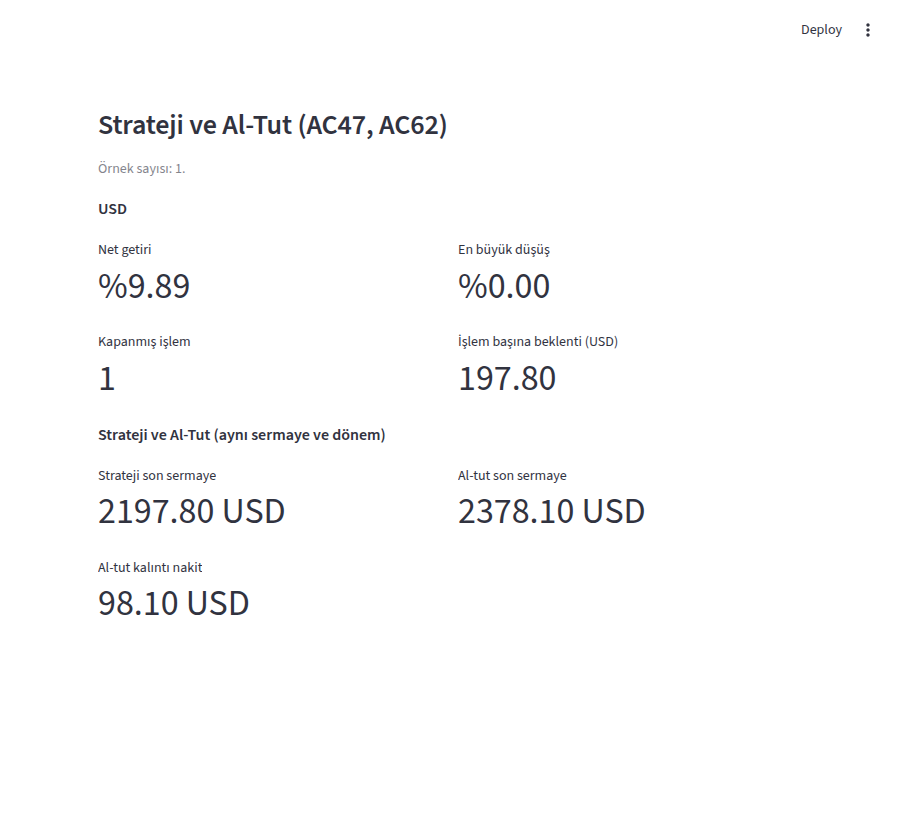
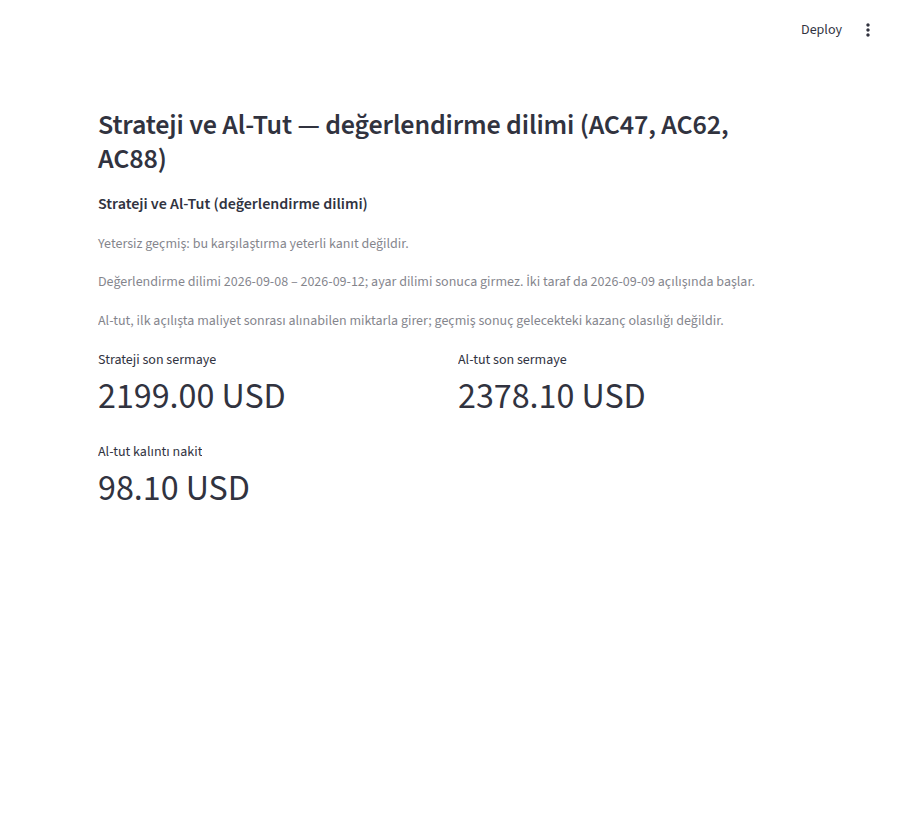
feat(performance): karşılaştırma ayrı değerlendirme diliminde başlar [plan 0005/S2]
Q01 eki (AC88): al-tut ve strateji değerlendirme diliminin ilk kapanışından
sonraki açılışta birlikte başlar; ayar dilimi sonuca girmez. Strateji dilim
içinde yeniden simüle edilir, 250 tarih altı 'yetersiz geçmiş' etiketi gösterilir.

Claude-Session: https://claude.ai/code/session_01KPUqAWALe17eWKMD3pfBWj

diff --git a/tests/test_performance_ui.py b/tests/test_performance_ui.py
@@ -171,41 +171,79 @@ def test_smoke_backtest_screen_shows_reliable_performance_report(store, monkeypa
     assert {"Strateji son sermaye", "Al-tut son sermaye"} <= {m.label for m in at.metric}
 
 
-def test_comparison_shows_strategy_and_buy_and_hold_on_same_capital():
-    """AC47 — Strateji ile al-tut aynı sermayede yan yana; al-tut maliyet sonrası miktarla girer."""
+def _comparison_frame(open_values=None, close_values=None):
+    """12 günlük çubuk: ayar dilimi ilk 7, değerlendirme dilimi son 5 (index 7–11)."""
     import pandas as pd
-    from technical_analysis import run_v1_strategy_backtest
+
+    index = pd.date_range("2026-09-01", periods=12, freq="D", tz="UTC")
+    opens = open_values or [100] * 12
+    closes = close_values or [100] * 11 + [120]
+    frame = pd.DataFrame({"Open": opens, "High": [max(o, c) + 1 for o, c in zip(opens, closes)],
+                          "Low": [min(o, c) - 1 for o, c in zip(opens, closes)],
+                          "Close": closes, "ATR": [4] * 12}, index=index)
+    return frame, index
+
+
+def _compare(frame, decisions, step=Decimal("1"), commission="0"):
     from trade_execution import CostAssumptions
 
     zero = Decimal("0")
-    index = pd.date_range("2026-09-01", periods=4, freq="D", tz="UTC")
-    frame = pd.DataFrame({
-        "Open": [100, 100, 110, 120], "High": [101, 200, 115, 125],
-        "Low": [98, 95, 105, 118], "Close": [100, 110, 112, 120], "ATR": [4, 5, 5, 5],
-    }, index=index)
-    costs = CostAssumptions(zero, zero, zero)
-    result = run_v1_strategy_backtest(
-        frame, {index[0]: "AL", index[1]: "BEKLE", index[2]: "SAT"}, initial_cash=Decimal("1000"),
-        trade_notional=Decimal("1000"), quantity_step=Decimal("1"), costs=costs)
-    view = performance_ui.comparison_from_backtest("ETH-USD", frame, result, Decimal("1"), costs)
+    costs = CostAssumptions(zero, zero, Decimal(commission))
+    return performance_ui.comparison_from_backtest(
+        "ETH-USD", frame, decisions, Decimal("1000"), Decimal("1000"), step, costs)
+
+
+def test_comparison_shows_strategy_and_buy_and_hold_on_same_capital():
+    """AC47 — Strateji ile al-tut aynı sermayede yan yana; al-tut maliyet sonrası miktarla girer."""
+    frame, index = _comparison_frame()
+    view = _compare(frame, {index[7]: "AL"})
     metrics = dict(view.blocks[0].metrics)
     assert metrics["Al-tut son sermaye"] == "1200.00 USD"   # 10 adet × 120
     assert metrics["Al-tut kalıntı nakit"] == "0.00 USD"
-    assert "Strateji son sermaye" in metrics
+    assert metrics["Strateji son sermaye"] == "1200.00 USD"  # aynı anda, aynı fiyattan girdi
+
+
+def test_ac88_prices_before_evaluation_slice_do_not_change_comparison():
+    """AC88 — Değerlendirme diliminden önceki fiyatlar değişince al-tut ve strateji karşılaştırması değişmez."""
+    frame, index = _comparison_frame()
+    decisions = {index[7]: "AL"}
+    before = _compare(frame, decisions)
+    altered = frame.copy()
+    altered.iloc[:7, :4] = altered.iloc[:7, :4].values * 3
+    after = _compare(altered, decisions)
+    assert before.blocks[0].metrics == after.blocks[0].metrics
+
+
+def test_ac88_decisions_inside_tuning_slice_are_not_used():
+    """AC88 — Ayar dilimindeki kararlar karşılaştırmada işlem açmaz; ikisi de dilimin ilk açılışında başlar."""
+    frame, index = _comparison_frame()
+    with_old_decision = _compare(frame, {index[3]: "AL", index[6]: "AL"})
+    metrics = dict(with_old_decision.blocks[0].metrics)
+    assert metrics["Strateji son sermaye"] == "1000.00 USD"   # dilim içinde karar yok → nakitte
+    assert metrics["Al-tut son sermaye"] == "1200.00 USD"
+    notes = " ".join(with_old_decision.blocks[0].notes)
+    assert "2026-09-09 açılışında başlar" in notes            # index[8], dilimin ilk kapanışından sonra
+
+
+def test_comparison_short_history_is_flagged_not_sufficient_evidence():
+    """AC54 — 250'den az tarihli geçmişte karşılaştırma "yetersiz geçmiş" etiketiyle gösterilir."""
+    frame, index = _comparison_frame()
+    notes = " ".join(_compare(frame, {index[7]: "AL"}).blocks[0].notes)
+    assert "Yetersiz geçmiş" in notes
 
 
 def test_comparison_without_known_step_explains_instead_of_guessing():
     """AC47 — Miktar adımı bilinmiyorsa al-tut uydurulmaz, neden gösterilir."""
-    import pandas as pd
-    from trade_execution import CostAssumptions
-
-    index = pd.date_range("2026-09-01", periods=2, freq="D", tz="UTC")
-    frame = pd.DataFrame({"Open": [100, 100], "Close": [100, 110]}, index=index)
-    backtest = {"initial_cash": "1000", "daily_equity": [
-        {"date": index[0], "equity": Decimal("1000")}, {"date": index[1], "equity": Decimal("1000")}]}
-    view = performance_ui.comparison_from_backtest(
-        "ETH-USD", frame, backtest, None, CostAssumptions(Decimal("0"), Decimal("0"), Decimal("0")))
+    frame, index = _comparison_frame()
+    view = _compare(frame, {index[7]: "AL"}, step=None)
     assert view.blocks == [] and "Miktar adımı bilinmiyor" in view.messages[0]
+
+
+def test_comparison_evaluation_slice_too_short_gives_message():
+    """AC57 — Değerlendirme dilimi karşılaştırmaya yetmiyorsa "yetersiz geçmiş" mesajı görünür."""
+    frame, _ = _comparison_frame()
+    view = _compare(frame.iloc[:2], {})
+    assert view.blocks == [] and "Yetersiz geçmiş" in view.messages[0]
 
 
 def _backtest_screen(store, monkeypatch, processed_df):

diff --git a/performance_ui.py b/performance_ui.py
@@ -13,7 +13,7 @@ from decimal import ROUND_HALF_EVEN, Decimal
 
 import market_map
 from trading_ui import describe_code
-from evaluation_window import EvaluationInput, buy_and_hold, comparable
+from evaluation_window import EvaluationInput, buy_and_hold, comparable, split_dates
 from config import PerformanceConfig
 from performance_report import (
     GECERSIZ_ISTEK, OK, CurrencyResult, EquityPoint, ReportFilters, ReportOutcome,
@@ -107,33 +107,58 @@ def report_from_backtest(symbol: str, backtest: dict,
     return build_report({symbol: equity}, trades, filters or ReportFilters())
 
 
-def comparison_from_backtest(symbol: str, frame, backtest: dict, quantity_step, costs) -> ReportView:
-    """Strateji ile al-tut'u aynı sermaye ve dönemde yan yana gösterir (eşit koşul denetimli)."""
+def comparison_from_backtest(symbol: str, frame, decisions: dict, notional: Decimal,
+                             capital: Decimal, quantity_step, costs) -> ReportView:
+    """Strateji ile al-tut'u ayrı değerlendirme diliminde, aynı anda ve aynı sermayeyle gösterir.
+
+    Q01 / AC88: ayar dilimi karşılaştırmaya girmez. İki taraf da değerlendirme diliminin ilk
+    kapanışından sonraki açılışta başlar (stratejinin ilk alış yapabileceği an); strateji
+    yalnız dilim içindeki kararları kullanır.
+    """
+    from technical_analysis import run_v1_strategy_backtest
+
     info = market_map.market_of(symbol)
     currency = info[1] if info else ""
-    curve = backtest["daily_equity"]
-    capital = Decimal(backtest["initial_cash"])
+    split = split_dates([_as_day(ts) for ts in frame.index])
+    if len(split.evaluation) < 2:
+        return ReportView(blocks=[], messages=[
+            "Yetersiz geçmiş: ayrı değerlendirme dilimi karşılaştırma için çok kısa."])
+    first = split.evaluation[0]
+    window = frame[[_as_day(ts) >= first for ts in frame.index]]
+    capital = Decimal(capital)
+    result = run_v1_strategy_backtest(window, decisions, initial_cash=capital,
+                                      trade_notional=Decimal(notional),
+                                      quantity_step=quantity_step, costs=costs)
+    curve = result["daily_equity"]
     days = [_as_day(p["date"]) for p in curve]
     side = EvaluationInput(capital, days[0], days[-1], days, external_cash_flow=False)
     verdict = comparable(side, side)
     if not verdict.ok:
         return ReportView(blocks=[], messages=[verdict.reason])
-    hold = buy_and_hold(capital, Decimal(str(frame["Open"].iloc[0])),
-                        Decimal(str(frame["Close"].iloc[-1])), quantity_step, costs)
+    start_open = window["Open"].iloc[1]
+    hold = buy_and_hold(capital, Decimal(str(start_open)),
+                        Decimal(str(window["Close"].iloc[-1])), quantity_step, costs)
     if not hold.executed:
         return ReportView(blocks=[], messages=[
             f"Al-tut referansı hesaplanamadı: {describe_code(hold.reason)}"])
     strategy_final = Decimal(curve[-1]["equity"])
     suffix = " (üst sınır)" if hold.is_upper_bound else ""
+    notes = [
+        f"Değerlendirme dilimi {days[0]} – {days[-1]}; ayar dilimi sonuca girmez. İki taraf da "
+        f"{_as_day(window.index[1])} açılışında başlar.",
+        "Al-tut, ilk açılışta maliyet sonrası alınabilen miktarla girer; "
+        "geçmiş sonuç gelecekteki kazanç olasılığı değildir.",
+    ]
+    if not split.sufficient_history:
+        notes.insert(0, "Yetersiz geçmiş: bu karşılaştırma yeterli kanıt değildir.")
     block = MetricBlock(
-        title="Strateji ve Al-Tut (aynı sermaye ve dönem)",
+        title="Strateji ve Al-Tut (değerlendirme dilimi)",
         metrics=[
             ("Strateji son sermaye", _money(strategy_final, currency)),
             ("Al-tut son sermaye", _money(hold.final_equity, currency) + suffix),
             ("Al-tut kalıntı nakit", _money(hold.leftover_cash, currency)),
         ],
-        notes=["Al-tut, ilk açılışta maliyet sonrası alınabilen miktarla girer; "
-               "geçmiş sonuç gelecekteki kazanç olasılığı değildir."],
+        notes=notes,
     )
     return ReportView(blocks=[block], messages=[])
 
@@ -151,6 +176,9 @@ def render_report_view(view: ReportView) -> None:
         st.markdown(f"**{block.title}**")
         for warning in block.warnings:
             st.warning(warning)
+        for note in block.notes:
+            if note not in block.warnings:
+                st.caption(note)
         # İki sütun: "hesaplanamıyor" gibi uzun metin dar ekranda kesilmesin.
         for start in range(0, len(block.metrics), 2):
             pair = block.metrics[start:start + 2]
@@ -174,4 +202,5 @@ def render_report_panel(source: dict) -> None:
     filters = ReportFilters(market=None if market == "Tümü" else market, start=start, end=end)
     render_report_view(build_report_view(report_from_backtest(symbol, backtest, filters)))
     render_report_view(comparison_from_backtest(
-        symbol, source["frame"], backtest, source["quantity_step"], source["costs"]))
+        symbol, source["frame"], source["decisions"], source["notional"],
+        Decimal(backtest["initial_cash"]), source["quantity_step"], source["costs"]))

diff --git a/docs/evidence/0005/adim4/harness.py b/docs/evidence/0005/adim4/harness.py
@@ -41,16 +41,13 @@ elif state == "currencies":
         [tr("100"), tr("100", sym="THYAO.IS", cur="TRY", mk="BIST")], ReportFilters())))
 if state == "comparison":
     import pandas as pd
-    from technical_analysis import run_v1_strategy_backtest
     from trade_execution import CostAssumptions
     zero = Decimal("0")
-    idx = pd.date_range("2026-09-01", periods=4, freq="D", tz="UTC")
-    frame = pd.DataFrame({"Open": [100, 100, 110, 120], "High": [101, 200, 115, 125],
-                          "Low": [98, 95, 105, 118], "Close": [100, 110, 112, 120], "ATR": [4, 5, 5, 5]}, index=idx)
+    idx = pd.date_range("2026-09-01", periods=12, freq="D", tz="UTC")
+    closes = [100] * 11 + [120]
+    frame = pd.DataFrame({"Open": [100] * 12, "High": [c + 1 for c in closes],
+                          "Low": [c - 1 for c in closes], "Close": closes, "ATR": [4] * 12}, index=idx)
     costs = CostAssumptions(zero, zero, Decimal("0.1"))
-    res = run_v1_strategy_backtest(frame, {idx[0]: "AL", idx[1]: "BEKLE", idx[2]: "SAT"},
-                                   initial_cash=Decimal("2000"), trade_notional=Decimal("1000"),
-                                   quantity_step=Decimal("1"), costs=costs)
-    st.subheader("Strateji ve Al-Tut (AC47, AC62)")
-    ui.render_report_view(ui.build_report_view(ui.report_from_backtest("ETH-USD", res)))
-    ui.render_report_view(ui.comparison_from_backtest("ETH-USD", frame, res, Decimal("1"), costs))
+    st.subheader("Strateji ve Al-Tut — değerlendirme dilimi (AC47, AC62, AC88)")
+    ui.render_report_view(ui.comparison_from_backtest(
+        "ETH-USD", frame, {idx[7]: "AL"}, Decimal("1000"), Decimal("2000"), Decimal("1"), costs))

diff --git a/app.py b/app.py
@@ -601,6 +601,7 @@ if is_chart_renderable(df_view):
                         if view_tf == "1d":
                             st.session_state["perf_report_source"] = {
                                 "symbol": symbol, "backtest": bt_results, "frame": df_view,
+                                "decisions": v1_decisions, "notional": trade_parsed.settings.notional,
                                 "quantity_step": trade_parsed.settings.quantity_step,
                                 "costs": trade_parsed.settings.costs,
                             }

diff --git a/docs/evidence/0005/adim4/README.md b/docs/evidence/0005/adim4/README.md
@@ -11,6 +11,6 @@ ile sürülür.
 | `empty.png` | AC02, AC49, AC78 — boş dönem ve sıfır sermayede "hesaplanamıyor" |
 | `error.png` | AC09, AC64 — geçersiz istek anlaşılır mesajla, teknik metin yok |
 | `currencies.png` | AC10 — para birimleri ayrı bloklarda, tek toplam yok |
-| `comparison.png` | AC47, AC62 — strateji ve al-tut aynı sermaye/dönemde |
+| `comparison.png` | AC47, AC62, AC88 — strateji ve al-tut değerlendirme diliminde, aynı anda başlar |
 
 Yeniden üretim: `streamlit run docs/evidence/0005/adim4/harness.py` ve `?state=missing_cost|empty|error|currencies|comparison`.
